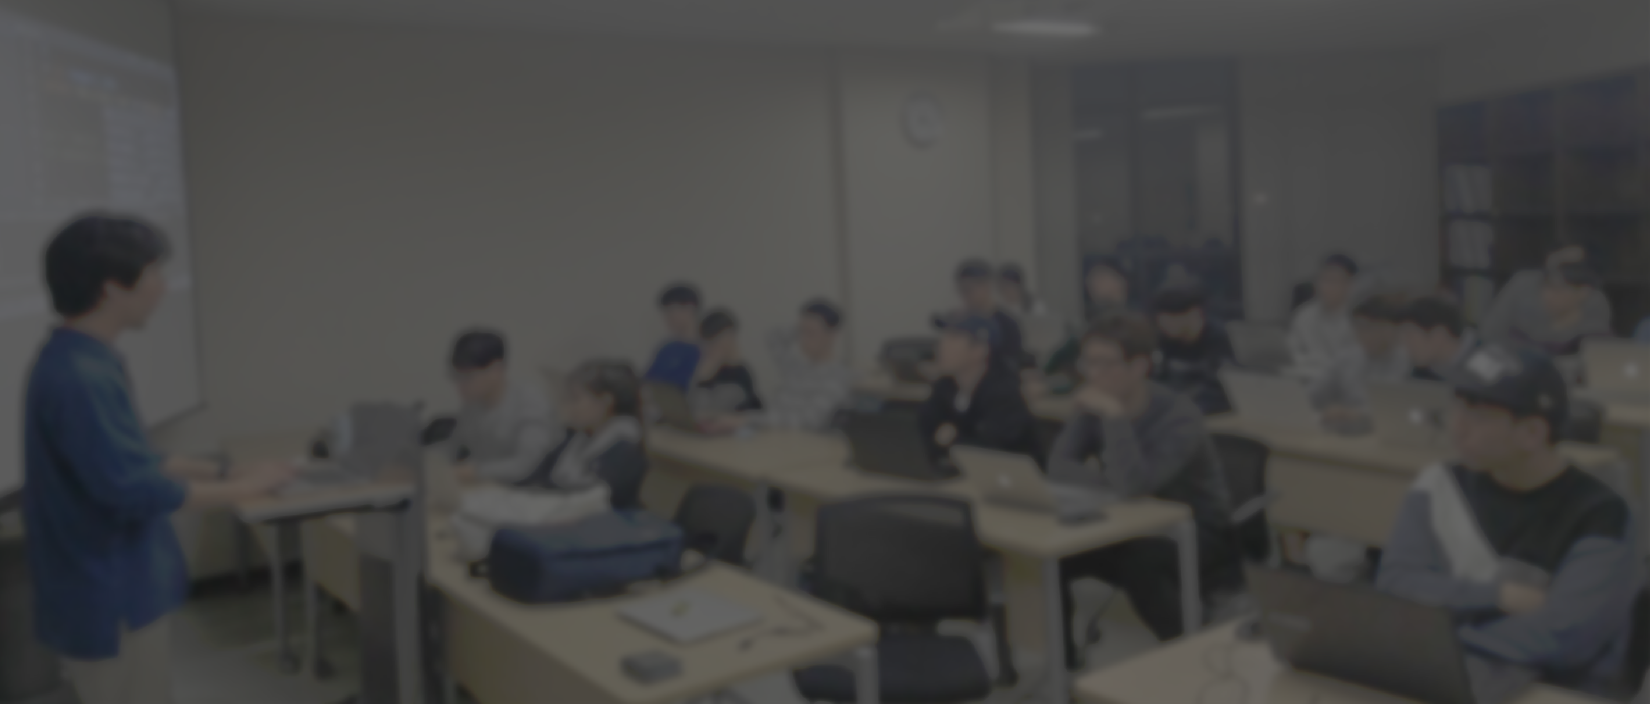
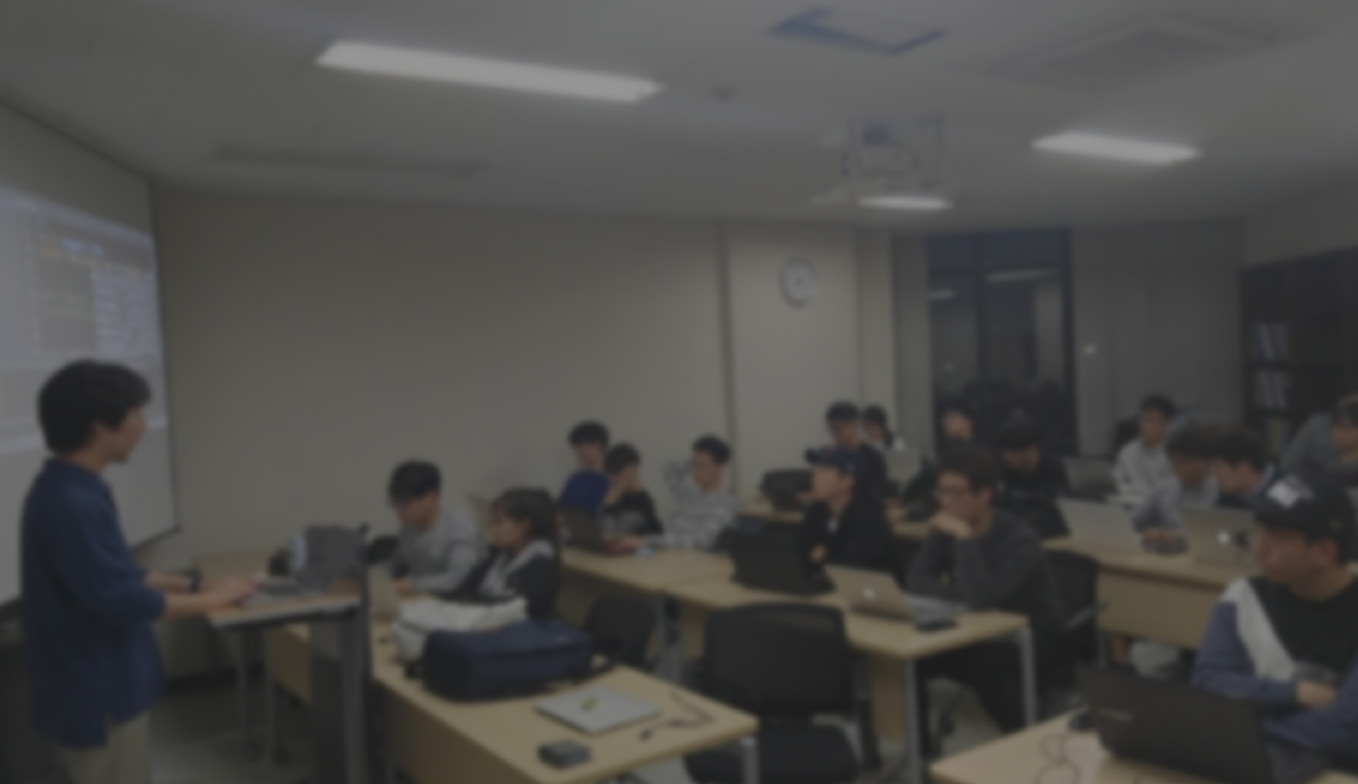
modify index page main background width

diff --git a/osoriweb/website/templates/website/index.html b/osoriweb/website/templates/website/index.html
@@ -2,7 +2,7 @@
 {% load staticfiles %}
 {% block content %}
 <div class="image">
-  <img src="{% static 'images/background.png'%}" alt="" height="100%" id="main_image"/>
+  <img src="{% static 'images/background.png'%}" alt="" width="100%" id="main_image"/>
   <h1 id="main_page">If software is eating the world,<br>
    then open source will chew it up!</h1>
 </div>
